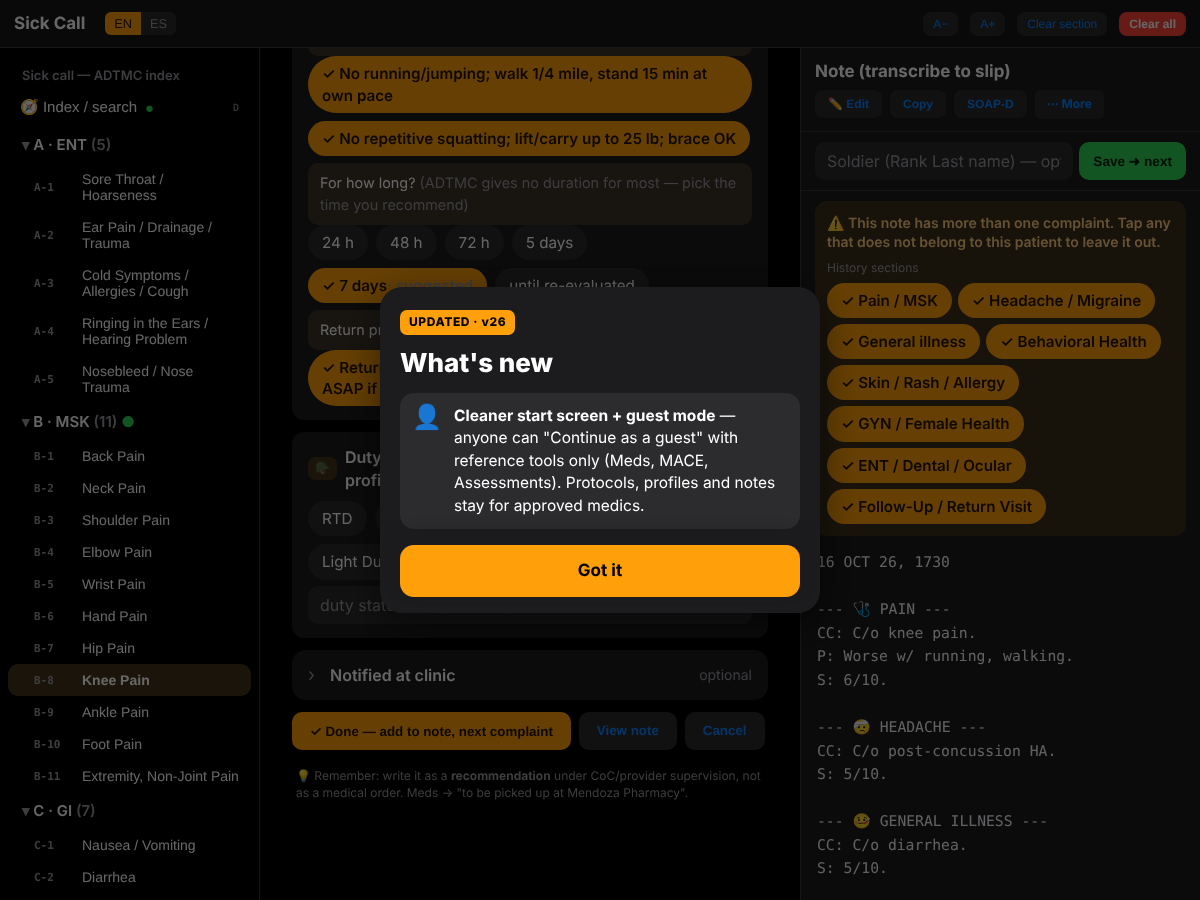
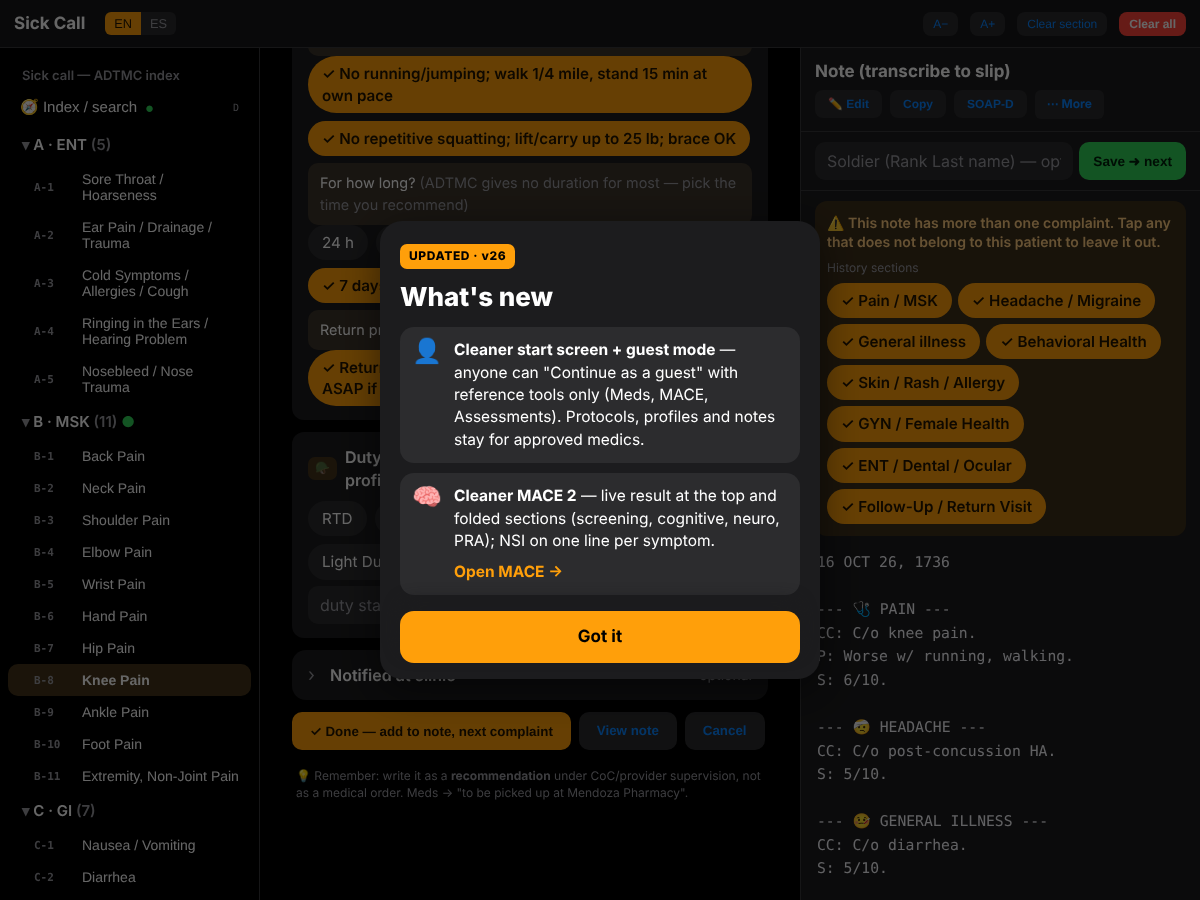
MACE 2: live result card + folded sections, compact NSI rows
MACE 2: tarjeta de resultado en vivo + secciones plegadas, NSI compacto

Claude-Session: https://claude.ai/code/session_015dVcNB5Wifchtix1QkjYVg

Changed region(s): [[0.3083, 0.2489, 0.6783, 0.7778], [0.6167, 0.2489, 0.6783, 0.3422]]

diff --git a/app.js b/app.js
@@ -1371,17 +1371,20 @@ function praText(){
 }
 function praCopy(b){copyTxt(praText(),b);}
 function praToNote(){const t=praText();const n=document.getElementById('note');const c0=n.textContent;const base=(c0.trim()&&!/^Pick a complaint/.test(c0))?c0.trimEnd()+'\n\n':'';setNoteMode('manual');n.textContent=base+t;renderNav();}
+const mcOpen={scr:true};
+function mcTog(id){mcOpen[id]=!mcOpen[id];renderMain();}
+function mcFold(id,t,sum,body){const op=!!mcOpen[id];return '<div class="fold'+(op?' open':'')+'" role="button" aria-expanded="'+op+'" onclick="mcTog(\''+id+'\')"><span class="chev">›</span><b>'+t+'</b><span class="fsum">'+sum+'</span></div>'+(op?'<div class="mcsec">'+body+'</div>':'');}
 function renderPra(){
   const E=praEval();
   const fld=(tag,name,ask,body)=>'<div class="field"><div class="lab"><span class="tag">'+tag+'</span><span class="name">'+name+'</span>'+(ask?'<span class="ask">'+ask+'</span>':'')+'</div>'+body+'</div>';
   const ch=(on,fn,t)=>'<span class="chip '+(on?'on':'')+'" onclick="'+fn+'">'+t+'</span>';
-  let h='<div class="secbar">PRA · Progressive return to activity (after the 24 h rest)</div>';
+  let h='';
   h+='<div class="note-hint">General guidance (App. H): minimum 24 h recovery; if first concussion in 12 months and asymptomatic, exertional testing can be done; if symptomatic at 24 h / after exertional testing, or it is the 2nd concussion in 12 months, enter the full PRA. Complete the NSI daily and after each stage. Stage 1 education: Acute Concussion / Return to Activity brochures (dvbic.dcoe.mil).</div>';
   h+=fld('12 mo','Second concussion in the past 12 months?','',"<div class='chips'>"+ch(pra.second===true,"praSet('second',true)",'YES (2nd)')+ch(pra.second===false,"praSet('second',false)",'NO (1st)')+'</div>');
   h+=fld('Stage','Current stage','one stage per day at most',"<div class='chips'>"+PRA_ST.map((x,i)=>ch(pra.stage===i+1,"praSet('stage',"+(i+1)+")",(i+1)+' · '+x[0])).join('')+'</div><div class="fuq">'+PRA_ST[pra.stage-1][1]+'</div>');
   h+=fld('Exert','Exertional testing','65–85% of target HR (220−age), ~2 min; stop and consult the provider if symptoms or red flags',"<div class='chips'>"+ch(pra.exert==='N',"praSet('exert','N')",'Not done')+ch(pra.exert==='A',"praSet('exert','A')",'Asymptomatic')+ch(pra.exert==='S',"praSet('exert','S')",'Symptomatic')+'</div>');
   h+='<div class="secbar">NSI · Neurobehavioral Symptom Inventory (0–4)</div><div class="fuq">0 none · 1 mild (occasional, doesn’t disrupt) · 2 moderate (often, occasionally disrupts) · 3 severe · 4 very severe. Progress only if all are 0–1.</div>';
-  NSI_Q.forEach((q,i)=>{h+='<div class="field" style="padding:6px 8px"><div class="lab"><span class="name" style="font-weight:500">'+q+'</span></div><div class="chips">'+[0,1,2,3,4].map(v=>ch(pra.nsi[i]===v,'praNsi('+i+','+v+')',String(v))).join('')+'</div></div>';});
+  NSI_Q.forEach((q,i)=>{h+='<div class="nsirow"><span>'+q+'</span><div class="nsiv">'+[0,1,2,3,4].map(v=>ch(pra.nsi[i]===v,'praNsi('+i+','+v+')',String(v))).join('')+'</div></div>';});
   h+='<div class="field"><b>'+(E.n&&E.max>=2?'⚠ HOLD / follow up':E.n?'✓ May progress':'—')+'</b><div style="margin-top:4px;font-size:.9em">'+E.rec+'</div></div>';
   h+='<div class="field"><pre style="white-space:pre-wrap;margin:0;font-size:.85em">'+praText().replace(/</g,'&lt;')+'</pre><div class="algo-actions"><button onclick="praCopy(this)">Copy</button><button class="ghost" onclick="praToNote()">Add to note</button><button class="ghost" onclick="praReset()">↺ Clear PRA</button></div></div>';
   return h;
@@ -1390,8 +1393,7 @@ function renderMace(){
   if(!mace)mcNew();const m=mace,S=mcScore();
   const YNU=[['Y','YES'],['N','NO'],['U','UNKNOWN']],YN=[['Y','YES'],['N','NO']];
   const fld=(tag,name,ask,body)=>`<div class="field"><div class="lab"><span class="tag">${tag}</span><span class="name">${name}</span>${ask?`<span class="ask">${ask}</span>`:''}</div>${body}</div>`;
-  let h='<h2 class="tpl">🧠 MACE 2 — Military Acute Concussion Evaluation</h2><p class="tpl-sub">ADTMC F-6 / Appendix H (DVBIC rev. 10/2018). Scoring helper: nothing is saved. Findings stay on this screen until you copy them to the note.</p>';
-  h+=`<div class="algo-actions" style="margin-bottom:10px"><button class="ghost" onclick="mcReset()">↺ New patient (clear)</button></div>`;
+  let h='';
   h+='<div class="secbar">1 · Description of incident</div>';
   h+=fld('1D','Blow or jolt to the head?','Head hit objects / struck by objects / blast wave / acceleration-deceleration',mcRow('','blow',YNU));
   h+='<div class="secbar">2 · Alteration of consciousness or memory</div>';
@@ -1404,6 +1406,7 @@ function renderMace(){
   h+='<div class="secbar">4 · History</div>';
   ['Diagnosed with a concussion in the past 12 months (not counting this event)?','History of diagnosed/treated headache disorder or migraine?','History of depression, anxiety, or other behavioral-health concerns?'].forEach((q,i)=>{h+=fld('4'+'ABC'[i],q,'',mcRow('','h',YN,i));});
   h+=`<div class="field" style="border-color:var(${S.screen?'--red':'--line'})"><b>Concussion screening result:</b> ${S.screen?'<span style="color:var(--red)">POSITIVE</span> — continue MACE 2, complete the evaluation before prescribing rest, communicate to line leadership, document and code in the EHR.':(m.blow===null?'<span style="color:var(--dim)">answer 1D and 2A–2D</span>':'<b>NEGATIVE</b> (needs a blow/jolt AND any alteration of consciousness or memory) — stop MACE 2; 24-hour rest period if deployed (avoid activities that worsen symptoms); follow up after rest per CMT; communicate to leadership; document and code in the EHR.')}</div>`;
+  const secScr=h;h='';let secCog='',secNeu='';
   if(S.screen){
     h+='<div class="secbar">Cognitive exam — choose one list (A–F) and use it for questions 6, 15 and 16</div><div class="chips">'+Object.keys(MC_WORDS).map(k=>`<span class="chip ${m.list===k?'on':''}" onclick="mace.list='${k}';renderMain()">List ${k}</span>`).join('')+'</div>';
     h+=fld('5','Orientation',`<b>${S.ori}/5</b> — within one hour of actual time`,'<div class="chips">'+MC_ORI.map((q,i)=>`<span class="chip ${m.ori[i]?'on':''}" onclick="mcFlip('ori',${i})">${m.ori[i]?'✓ ':''}${q}</span>`).join('')+'</div>');
@@ -1414,17 +1417,31 @@ function renderMace(){
     h+=fld('15B','Months in reverse order',`<b>${m.mo?1:0}/1</b> — all correct: Dec–Nov–Oct–Sep–Aug–Jul–Jun–May–Apr–Mar–Feb–Jan`,`<div class="chips"><span class="chip ${m.mo===true?'on':''}" onclick="mace.mo=mace.mo===true?null:true;renderMain()">All months correct</span><span class="chip ${m.mo===false?'on':''}" onclick="mace.mo=mace.mo===false?null:false;renderMain()">Incorrect</span></div><div class="fuq">Concentration total (15A + 15B): <b>${S.conc}/5</b></div>`);
     h+=fld('16','Delayed recall',`<b>${S.dr}/5</b> — "Do you remember that list of words I read a few minutes earlier? Tell me as many as you can, in any order." Do NOT repeat the list.`,'<div class="chips">'+MC_WORDS[m.list].map((w,i)=>`<span class="chip ${m.dr[i]?'on':''}" onclick="mcFlip('dr',${i})">${m.dr[i]?'✓ ':''}${w}</span>`).join('')+'</div>');
     h+=`<div class="field" style="border-color:var(${S.cogAb?'--red':'--line'})"><b>Cognitive total: ${S.cog}/30</b> (orientation ${S.ori} + immediate memory ${S.im} + concentration ${S.conc} + delayed recall ${S.dr}) — ${S.cogAb?'<span style="color:var(--red)">ABNORMAL (≤25)</span>':'normal (>25)'}</div>`;
+    secCog=h;h='';
     h+='<div class="secbar">Neurological exam (7–14)</div>';
     MC_NEURO.forEach((n,i)=>{h+=fld(String(7+i),n[0],n[1],`<div class="chips"><span class="chip ${m.neuro[i]==='N'?'on':''}" onclick="mcSet('neuro','N',${i})">Normal</span><span class="chip ${m.neuro[i]==='A'?'on':''}" style="${m.neuro[i]==='A'?'background:var(--red);border-color:var(--red);color:var(--on-red)':''}" onclick="mcSet('neuro','A',${i})">Abnormal</span></div>`);});
     h+='<div class="secbar">17 · Vestibular / ocular-motor screening (VOMS)</div>';
     h+=fld('17','VOMS result','Contraindication: unstable cervical spine. Defer if overtly symptomatic or no trained provider. Record headache / dizziness / nausea / fogginess (HDNF, 0–10) before and after each task: smooth pursuits, horizontal & vertical saccades, convergence (≥5 cm near point is abnormal), horizontal & vertical VOR, visual motion sensitivity. Any score above baseline is abnormal.',`<div class="chips"><span class="chip ${m.voms==='N'?'on':''}" onclick="mcSet('voms','N')">Normal</span><span class="chip ${m.voms==='A'?'on':''}" onclick="mcSet('voms','A')">Abnormal</span><span class="chip ${m.voms==='D'?'on':''}" onclick="mcSet('voms','D')">Deferred</span></div>`);
   }
-  h+='<div class="secbar">Summary</div><div class="field"><pre style="white-space:pre-wrap;margin:0;font-size:.85em">'+mcText().replace(/</g,'&lt;')+'</pre><div class="algo-actions"><button onclick="mcCopy(this)">Copy</button><button class="ghost" onclick="mcToNote()">Add to note</button></div></div>';
-  h+=renderPra();
-  h+='<div class="fuq" style="margin-top:8px">After completing MACE 2: document in the EHR with coding (initial TBI screening code Z13.850; primary TBI diagnostic code S06.-, etc. — see DVBIC ICD-10 coding guidance); initiate 24-hour rest; use the Concussion Management Tool (CMT); after the rest period evaluate for Progressive Return to Activity (PRA). The PRA guidance, NSI and stages above follow Appendix H (pp. 267–272); the CMT symptom-cluster treatment tables are not reproduced — use the pamphlet or the provider. This tool does not replace provider judgment.</div>';
-  return h;
+  if(S.screen){secNeu=h;}h='';
+  h+='<div class="field"><pre style="white-space:pre-wrap;margin:0;font-size:.85em">'+mcText().replace(/</g,'&lt;')+'</pre><div class="algo-actions"><button onclick="mcCopy(this)">Copy</button><button class="ghost" onclick="mcToNote()">Add to note</button></div></div>';
+  const secSum=h;h='';const secPra=renderPra();
+  const secInfo='<div class="fuq" style="margin-top:0">After completing MACE 2: document in the EHR with coding (initial TBI screening code Z13.850; primary TBI diagnostic code S06.-, etc. — see DVBIC ICD-10 coding guidance); initiate 24-hour rest; use the Concussion Management Tool (CMT); after the rest period evaluate for Progressive Return to Activity (PRA). The PRA guidance, NSI and stages above follow Appendix H (pp. 267–272); the CMT symptom-cluster treatment tables are not reproduced — use the pamphlet or the provider. This tool does not replace provider judgment.</div>';
+  const answered=['blow','aoc','loc','pta','wit'].filter(k=>m[k]!==null).length+((m.sym.length||m.symNeg)?1:0)+m.h.filter(x=>x!==null).length;
+  const res=S.screen?'pos':(m.blow===null?'none':'neg');
+  const nN=m.neuro.filter(x=>x!==null).length,nsiV=Object.values(pra.nsi||{}),nsiT=nsiV.reduce((x,y)=>x+y,0);
+  if(S.screen&&mcOpen.cog===undefined)mcOpen.cog=true;
+  let o='<div class="mace-head"><div><h2 class="tpl" style="margin:0">🧠 MACE 2</h2><div class="mh-sub">'+L('Concussion evaluation · ADTMC F-6 / App. H','Evaluación de concusión · ADTMC F-6 / Apénd. H')+'</div></div><button class="mh-new" onclick="mcReset()">↺ '+L('New','Nuevo')+'</button></div>';
+  o+='<div class="mace-status ms-'+res+'"><div class="ms-k">'+L('Screening','Tamizaje')+'</div><div class="ms-v">'+(res==='pos'?L('POSITIVE','POSITIVO'):res==='neg'?L('Negative','Negativo'):L('Not started','Sin empezar'))+'</div>'
+    +(S.screen?'<div class="ms-row"><span>'+L('Cognitive','Cognitivo')+' <b>'+S.cog+'/30</b></span><span>'+L('Neuro','Neuro')+' <b>'+(nN?(S.nAb?S.nAb+' '+L('abn','anormal'):L('normal','normal')):'—')+'</b></span><span>VOMS <b>'+(m.voms==='A'?L('abn','anormal'):m.voms==='N'?'OK':m.voms==='D'?L('deferred','diferido'):'—')+'</b></span></div>':'<div class="ms-hint">'+(res==='neg'?L('Negative screen — stop MACE 2, 24 h rest, follow CMT.','Tamizaje negativo — termina MACE 2, 24 h de descanso, sigue el CMT.'):L('Answer 1D and 2A–2D. Positive = blow/jolt + AOC, LOC or PTA.','Contesta 1D y 2A–2D. Positivo = golpe + AOC, LOC o PTA.'))+'</div>')+'</div>';
+  o+=mcFold('scr','1–4 · '+L('Screening','Tamizaje'),answered+'/9',secScr);
+  if(S.screen){const cT=S.cog>0||m.mo!==null;o+=mcFold('cog','5–6, 15–16 · '+L('Cognitive exam','Examen cognitivo'),cT?S.cog+'/30'+(S.cogAb?' ⚠':''):'—',secCog);
+    o+=mcFold('neu','7–14, 17 · '+L('Neuro exam + VOMS','Examen neuro + VOMS'),nN+'/8'+(S.nAb?' ⚠':''),secNeu);}
+  o+=mcFold('sum','📝 '+L('Summary → note','Resumen → nota'),'',secSum);
+  o+=mcFold('pra','🏃 PRA · '+L('Return to activity','Regreso a actividad'),L('Stage ','Etapa ')+pra.stage+(nsiV.length?' · NSI '+nsiT:''),secPra);
+  o+=mcFold('info','ⓘ '+L('After MACE: coding & next steps','Después del MACE: códigos y pasos'),'',secInfo);
+  return '<div class="mace">'+o+'</div>';
 }
-
 function renderQ(){
   let h=`<h2 class="tpl">❓ Question bank</h2><p class="tpl-sub">What to ask, in order.</p><div class="ref">`;
   QBANK.forEach(([sec,rows])=>{

diff --git a/style.css b/style.css
@@ -742,3 +742,28 @@ body.guest #aside,body.guest #mobileNoteBtn,body.guest #tabbar button[data-v="ad
 .guest-lock button{display:block;width:100%;border:0;border-radius:14px;padding:15px;font:inherit;font-size:17px;font-weight:700;margin-top:10px;cursor:pointer}
 .guest-lock .gl-btn{background:var(--accent);color:#000}
 .guest-lock .gl-sec{background:var(--panel);color:var(--txt)}
+/* MACE 2 cleaner layout (v26) / MACE más limpio */
+.mace-head{display:flex;align-items:center;justify-content:space-between;gap:10px;margin:4px 0 12px}
+.mace-head .mh-sub{color:var(--dim);font-size:14px;margin-top:2px}
+.mace-head .mh-new{border:0;background:var(--panel);color:var(--accent);font:inherit;font-weight:700;font-size:15px;padding:9px 14px;border-radius:12px;cursor:pointer;flex:none}
+.mace-status{border-radius:18px;padding:14px 16px;margin-bottom:14px;background:var(--panel);border-left:5px solid var(--line)}
+.mace-status.ms-pos{border-left-color:var(--red)}.mace-status.ms-neg{border-left-color:var(--green)}
+.mace-status .ms-k{font-size:12px;font-weight:700;letter-spacing:.06em;text-transform:uppercase;color:var(--dim)}
+.mace-status .ms-v{font-size:24px;font-weight:800;margin:2px 0 4px}
+.mace-status.ms-pos .ms-v{color:var(--red)}.mace-status.ms-neg .ms-v{color:var(--green)}
+.mace-status .ms-row{display:flex;gap:14px;flex-wrap:wrap;font-size:14px;color:var(--dim)}.mace-status .ms-row b{color:var(--txt)}
+.mace-status .ms-hint{font-size:14px;color:var(--dim);line-height:1.45}
+.mace .mcsec{margin:0 0 14px}
+.mace .secbar{font-size:13px;font-weight:700;letter-spacing:.04em;text-transform:uppercase;color:var(--dim);margin:16px 4px 6px;padding:0;background:none;border:0}
+.mace .field{padding:12px 14px;margin:8px 0}
+.mace .field .lab{flex-wrap:wrap;align-items:baseline;gap:4px 8px;margin-bottom:8px}
+.mace .field .lab .tag{font-size:11px;padding:2px 6px}
+.mace .field .lab .name{font-size:16px;font-weight:600;flex:1 1 auto;min-width:0}
+.mace .field .lab .ask{flex-basis:100%;order:3;font-size:13.5px;color:var(--dim);margin:0;line-height:1.4;text-align:left}
+.mace .chips{gap:6px}
+.mace .chips .chip{min-width:62px;text-align:center;justify-content:center}
+.mace .note-hint,.mace .fuq{font-size:13.5px;line-height:1.5}
+.nsirow{display:flex;align-items:center;justify-content:space-between;gap:10px;padding:9px 12px;background:var(--panel);border-radius:12px;margin:5px 0}
+.nsirow>span{font-size:14.5px;line-height:1.3;min-width:0}
+.nsirow .nsiv{display:flex;gap:4px;flex:none}
+.nsirow .nsiv .chip{min-width:0;width:32px;height:32px;padding:0;display:flex;align-items:center;justify-content:center;border-radius:9px;margin:0;font-size:14px}

diff --git a/data/whatsnew.js b/data/whatsnew.js
@@ -4,7 +4,8 @@
    go: optional button target — a tab/view name ('admeds', 'perfiles', 'more') or 'proto:J-3'. */
 const WHATSNEW=[
  {v:'v26',items:[
-   {i:'👤',en:'<b>Cleaner start screen + guest mode</b> — anyone can "Continue as a guest" with reference tools only (Meds, MACE, Assessments). Protocols, profiles and notes stay for approved medics.',es:'<b>Pantalla de inicio más limpia + modo invitado</b> — cualquiera puede "Continuar como invitado" solo con referencias (Meds, MACE, Assessments). Los protocolos, perfiles y notas siguen siendo para médicos aprobados.'}]},
+   {i:'👤',en:'<b>Cleaner start screen + guest mode</b> — anyone can "Continue as a guest" with reference tools only (Meds, MACE, Assessments). Protocols, profiles and notes stay for approved medics.',es:'<b>Pantalla de inicio más limpia + modo invitado</b> — cualquiera puede "Continuar como invitado" solo con referencias (Meds, MACE, Assessments). Los protocolos, perfiles y notas siguen siendo para médicos aprobados.'},
+   {i:'🧠',en:'<b>Cleaner MACE 2</b> — live result at the top and folded sections (screening, cognitive, neuro, PRA); NSI on one line per symptom.',es:'<b>MACE 2 más limpio</b> — resultado en vivo arriba y secciones plegadas (tamizaje, cognitivo, neuro, PRA); NSI en una línea por síntoma.',go:'mace',btn:['Open MACE','Abrir MACE']}]},
  {v:'v25',items:[
    {i:'🆕',en:'<b>What\'s new window</b> — after each update you\'ll see this card with the new features.',es:'<b>Ventana de novedades</b> — después de cada actualización verás esta tarjeta con lo nuevo.'}]},
  {v:'v24',items:[

diff --git a/CHANGELOG.md b/CHANGELOG.md
@@ -4,6 +4,8 @@ Bilingual summary of everything added or fixed, newest first. PR numbers refer t
 Resumen bilingüe de todo lo agregado o corregido, lo más nuevo primero. Los números de PR son de este repositorio.
 
 ## Unreleased / Próximo
+- **Cleaner MACE 2:** live screening result card at the top (Negative / POSITIVE, cognitive score, neuro, VOMS) and folded sections — Screening, Cognitive, Neuro + VOMS, Summary, PRA and coding info — with progress on each. Script lines sit under each question; NSI symptoms take one line each with 0–4 buttons.
+  **MACE 2 más limpio:** tarjeta de resultado en vivo arriba (Negativo / POSITIVO, puntaje cognitivo, neuro, VOMS) y secciones plegadas — Tamizaje, Cognitivo, Neuro + VOMS, Resumen, PRA e info de códigos — con progreso en cada una. El texto para leer va debajo de cada pregunta; los síntomas del NSI van en una línea con botones 0–4.
 - **Cleaner start screen + guest mode:** the access screen is simpler (less small text, EN/ES switch). New "Continue as a guest": reference tools only — Meds, MACE, Assessments and Questions. Protocols, dispositions, profiles, notes and the patient list stay locked for approved medics. A 👤 Guest button at the top returns to the access screen.
   **Pantalla de inicio más limpia + modo invitado:** la pantalla de acceso es más sencilla (menos letra chica, botón EN/ES). Nuevo "Continuar como invitado": solo referencias — Meds, MACE, Assessments y Preguntas. Protocolos, disposiciones, perfiles, notas y la lista de pacientes siguen bloqueados para médicos aprobados. Un botón 👤 Invitado arriba regresa a la pantalla de acceso.
 - **"What's new" popup:** after an update, medics see a short card with the new features once (with a button to jump to them). More → What's new shows it again.
